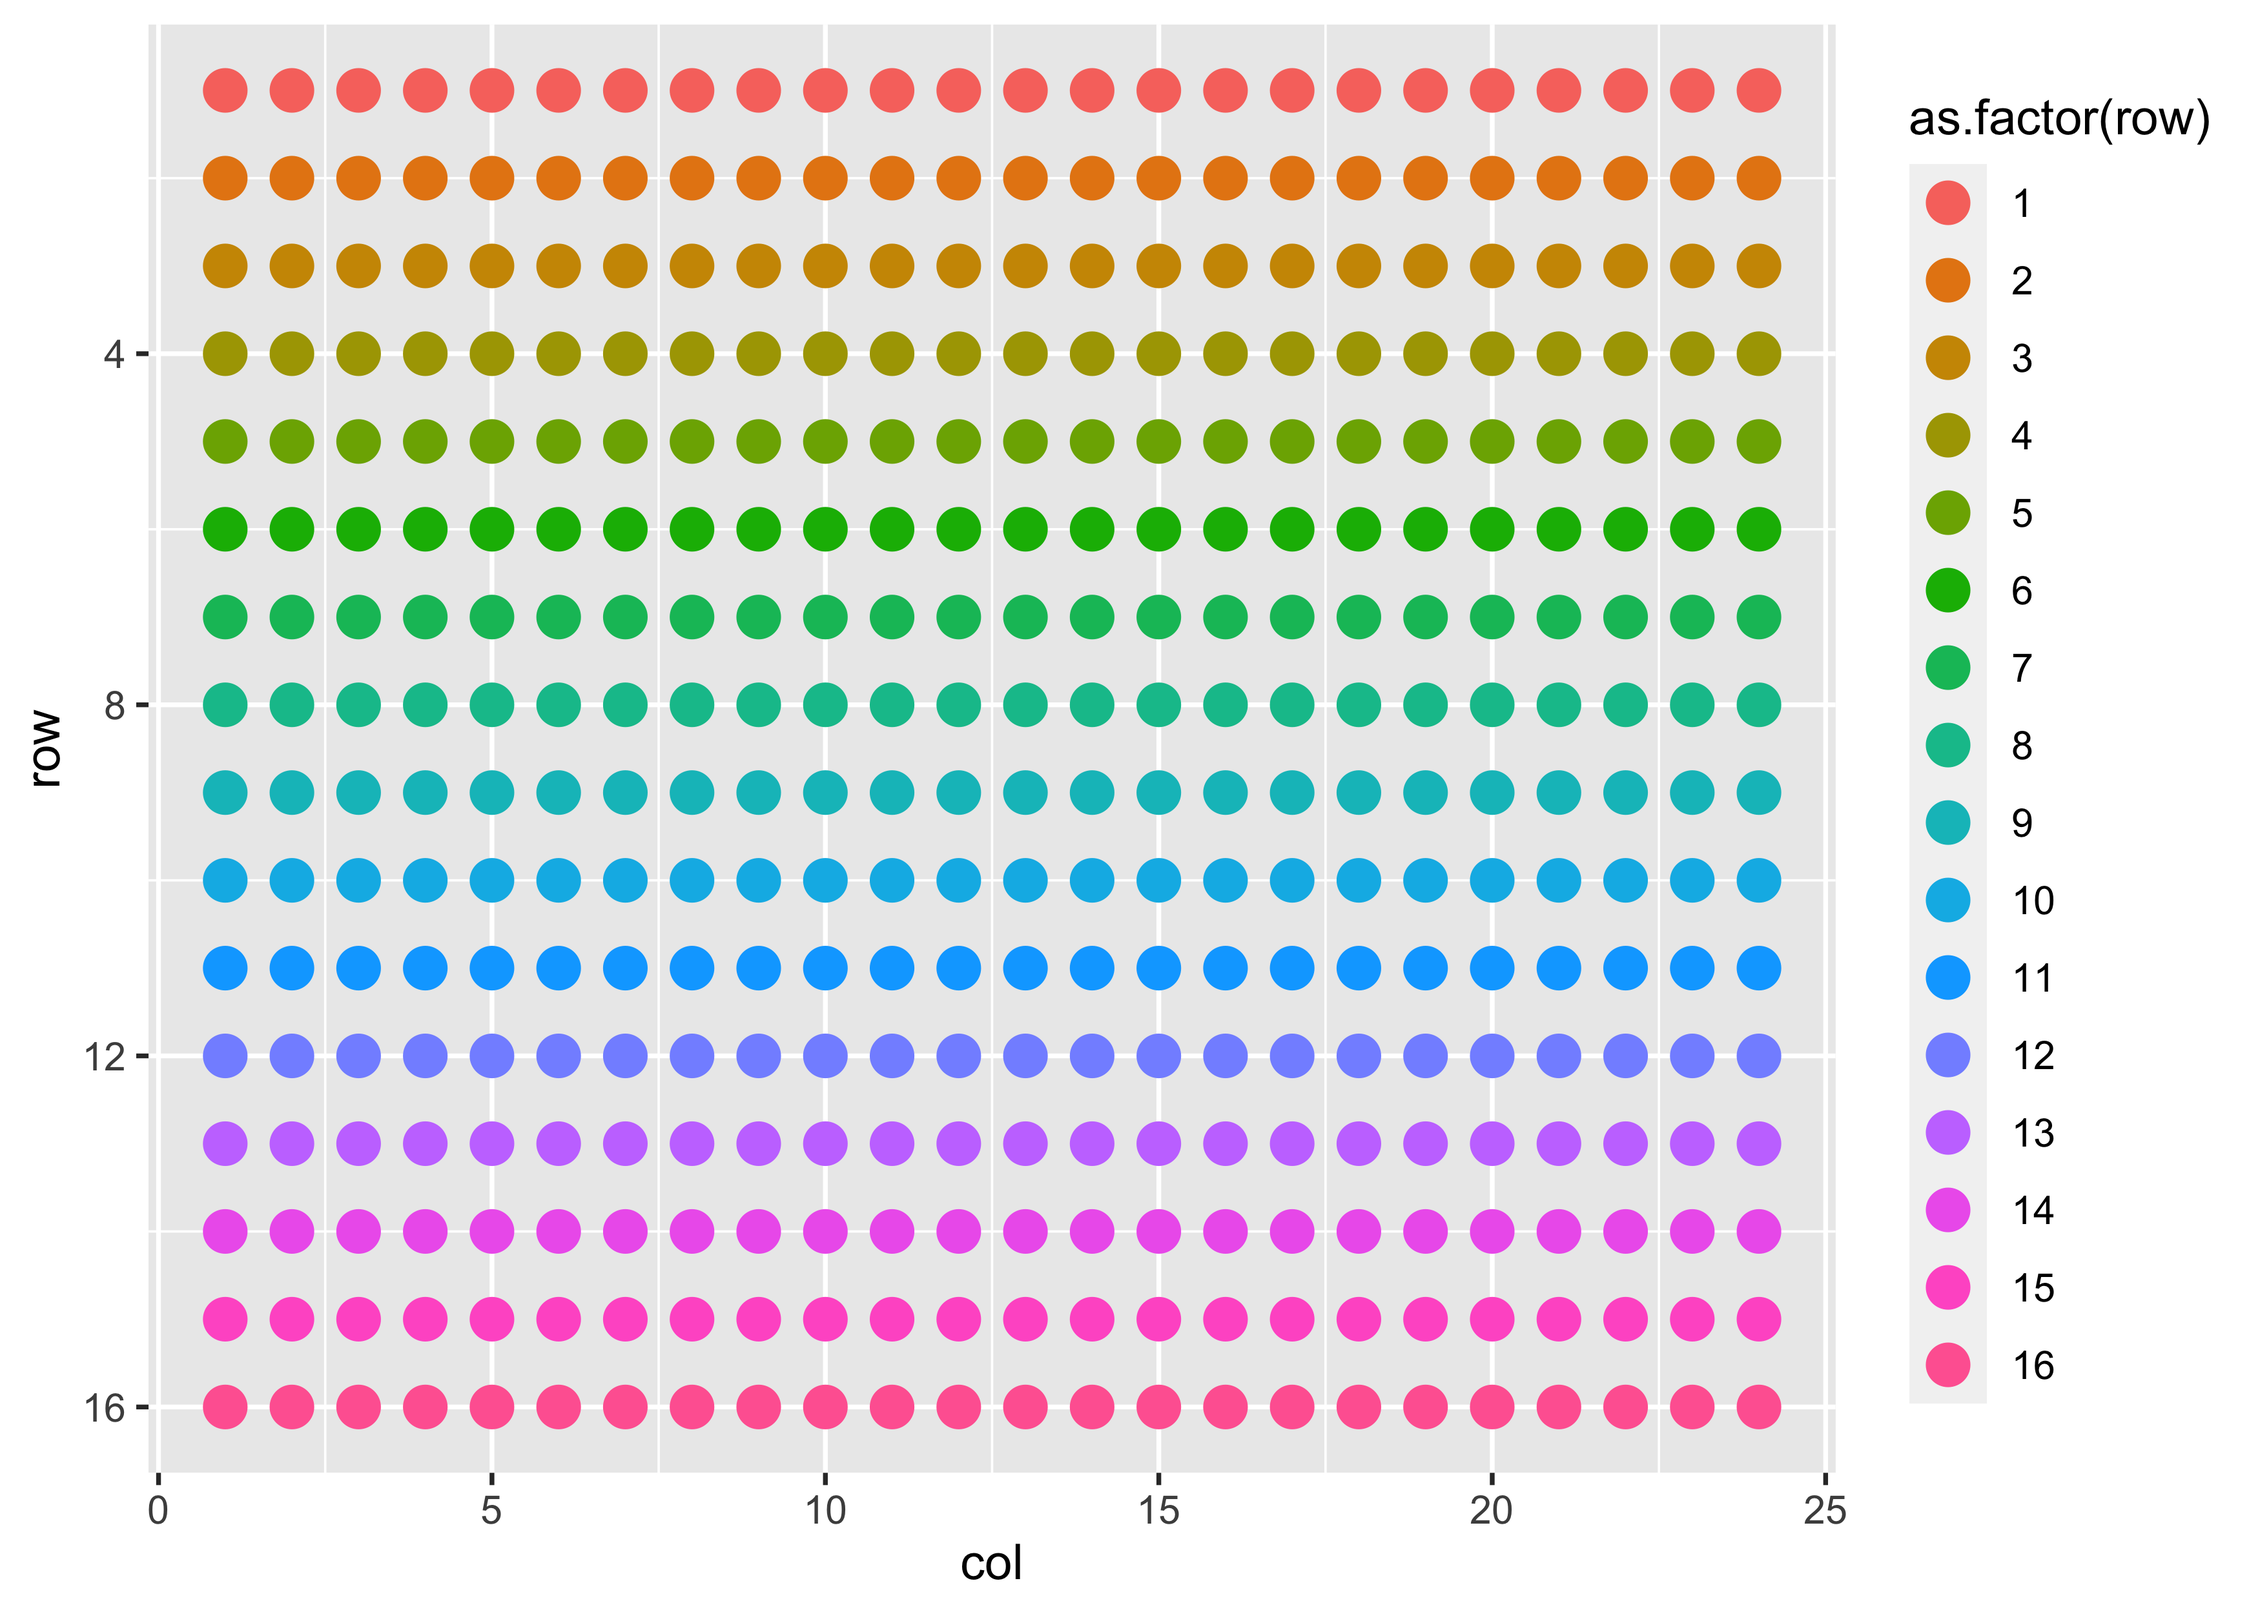
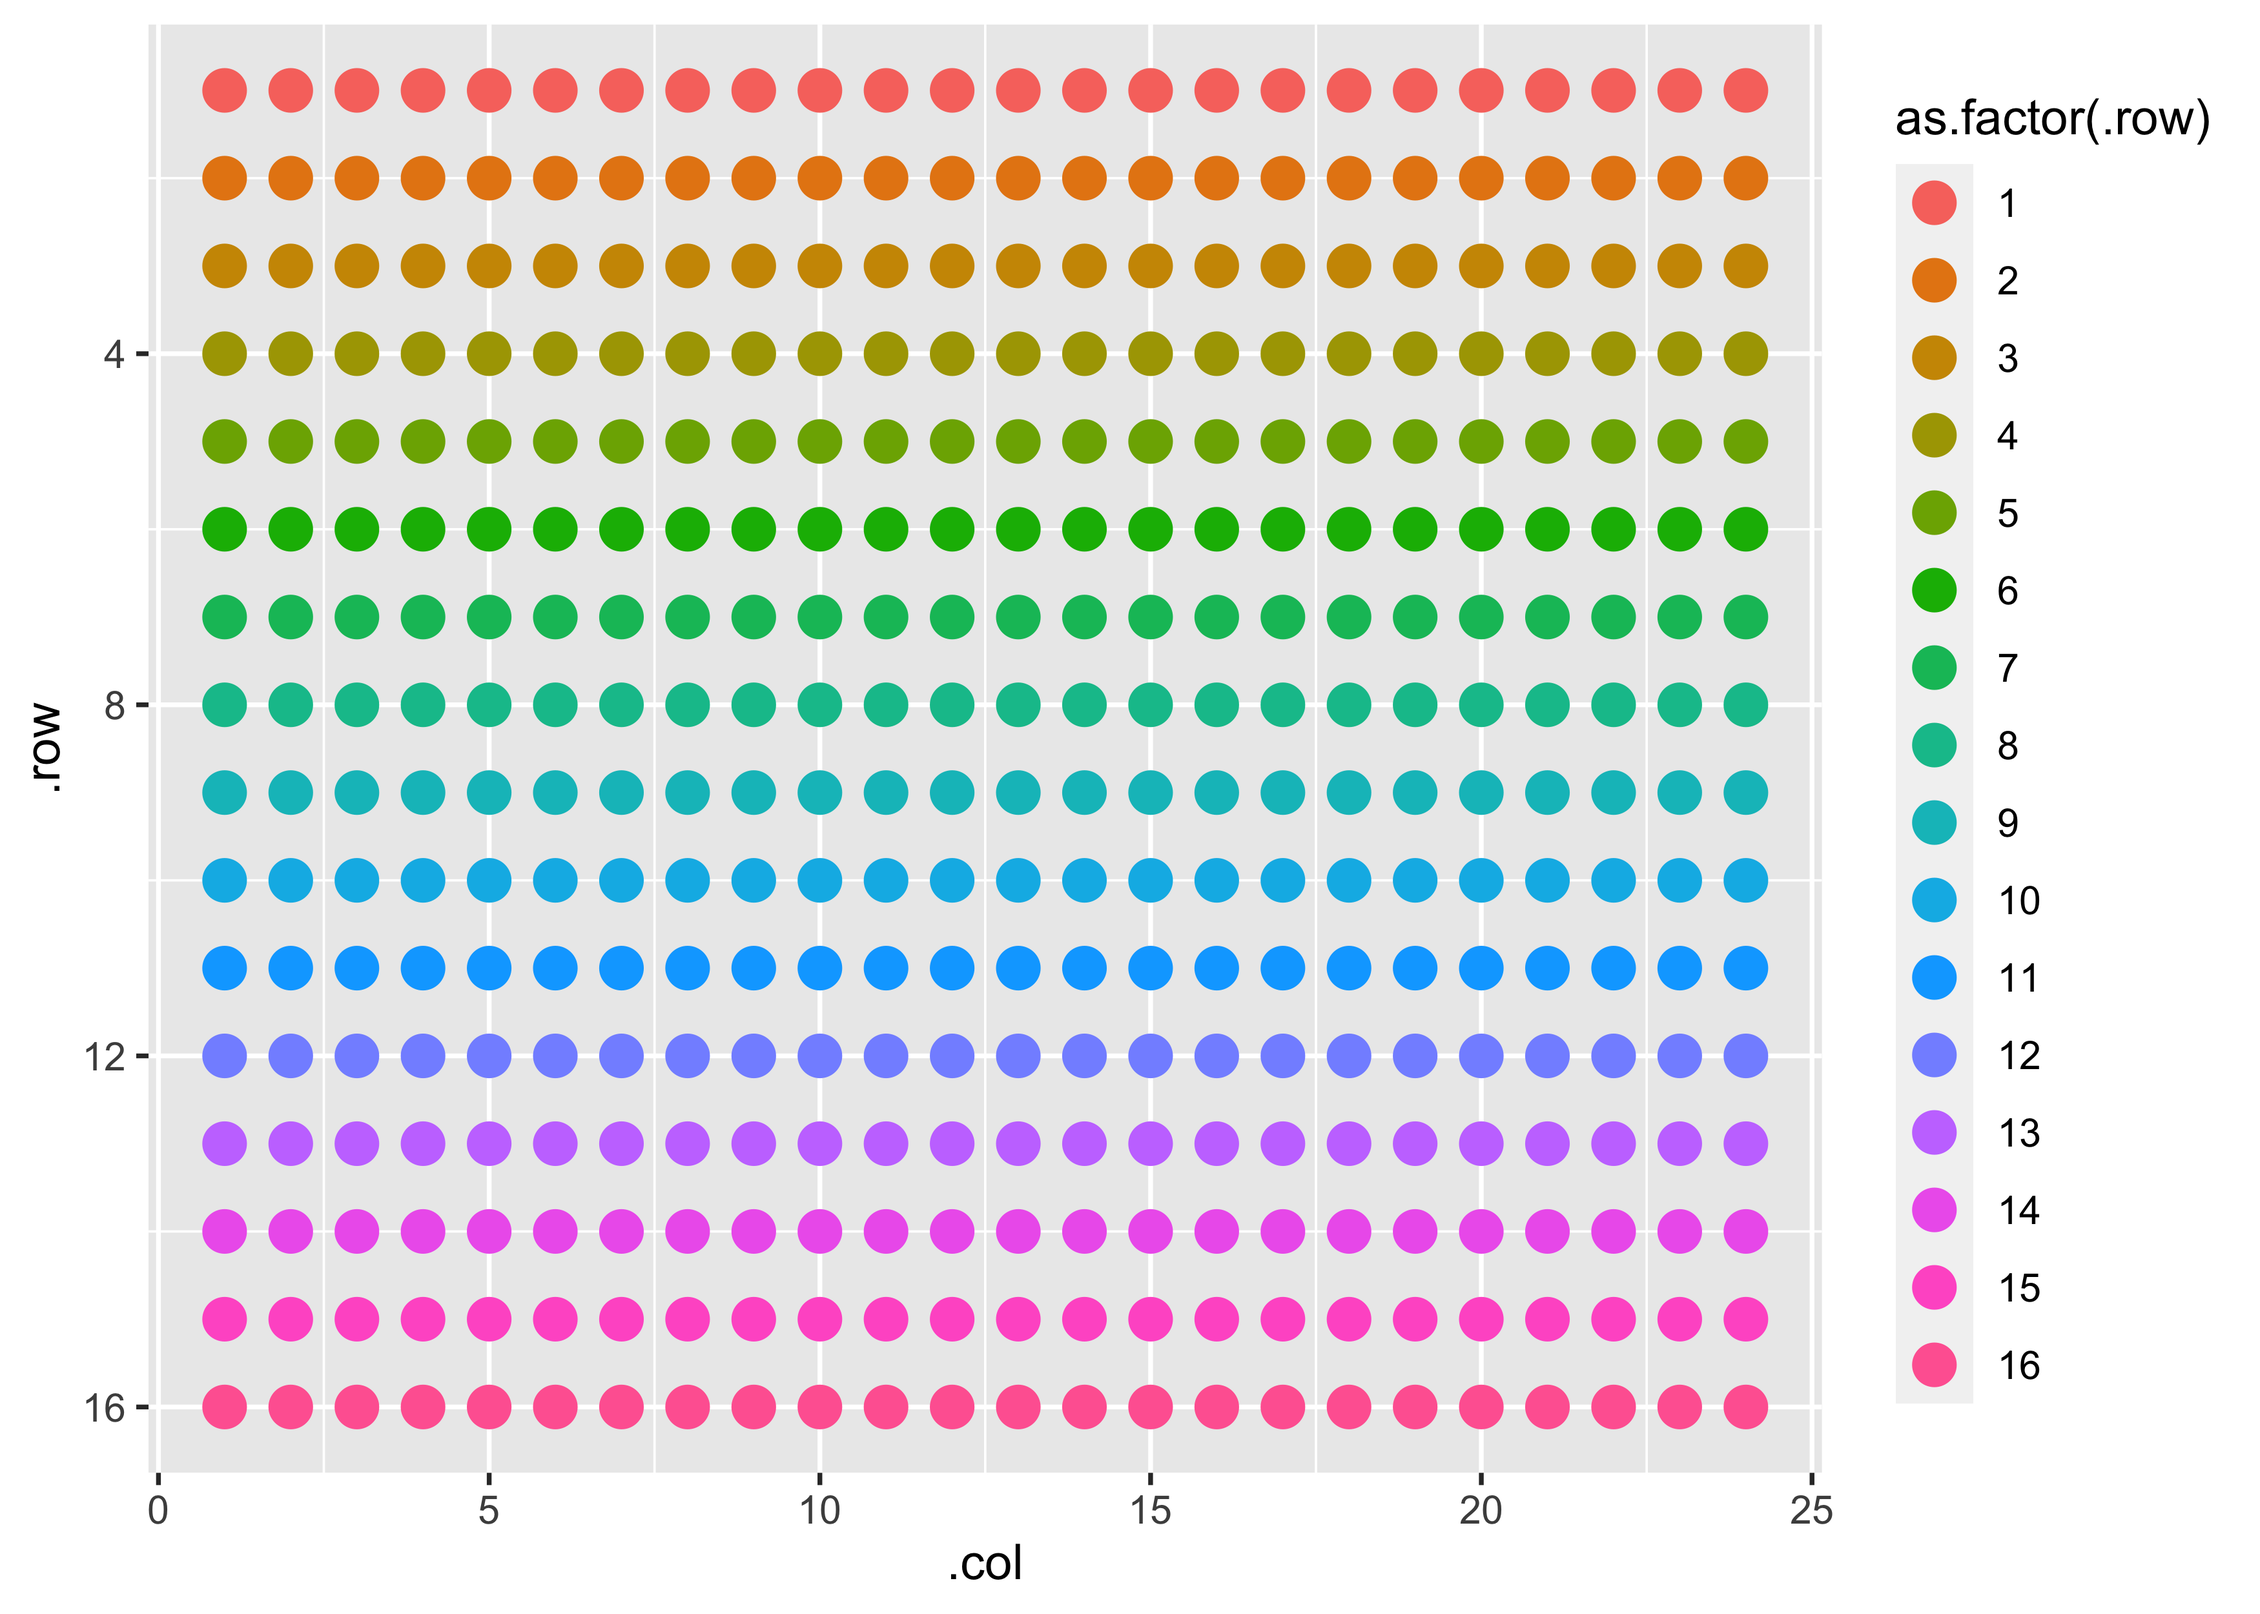
at least it builds

Changed region(s): [[0.218, 0.0312, 0.8097, 0.936], [0.8409, 0.0624, 0.9343, 0.8736], [0.0, 0.4368, 0.0311, 0.4992]]

diff --git a/README.md b/README.md
@@ -37,7 +37,7 @@ Creating a plate plot is simple:
 ``` r
 library(gp)
 gp(rows = 16, cols = 24) |>
-  gp_plot(as.factor(row))
+  gp_plot(as.factor(.row))
 ```
 
 <img src="man/figures/README-example-1.png" width="100%" /> We can add
@@ -46,7 +46,7 @@ rectangular ‘sections’ to our plates:
 ``` r
 gp(rows = 16, cols = 24) |> 
   gp_sec("my_section", nrow = 12, ncol = 6) |> 
-  gp_plot(my_section)
+  gp_plot(as.factor(my_section))
 ```
 
 <img src="man/figures/README-unnamed-chunk-2-1.png" width="100%" />
@@ -58,7 +58,7 @@ These sections can have sections of their own, just by layering one
 gp(rows = 16, cols = 24) |> 
   gp_sec("my_section", nrow = 12, ncol = 6) |> 
   gp_sec("secsec", nrow = 3, ncol = 3) |> 
-  gp_plot(secsec)
+  gp_plot(as.factor(secsec))
 ```
 
 <img src="man/figures/README-unnamed-chunk-3-1.png" width="100%" />
@@ -69,7 +69,7 @@ sparkline-esque plates.
 ``` r
 mini_plot_cols <- gp(8, 12) |> 
   gp_sec(name = "primers", ncol = 3) |> 
-  gp_plot(primers) + 
+  gp_plot(as.factor(primers)) + 
   gp_mini_theme()
 ggplot2::ggsave(filename = "./man/figures/mini-plot_cols.png", 
                 plot = mini_plot_cols,
@@ -80,7 +80,7 @@ ggplot2::ggsave(filename = "./man/figures/mini-plot_cols.png",
 
 mini_plot_rows <- gp(8, 12) |> 
   gp_sec(name = "primers", nrow = 3) |> 
-  gp_plot(primers) + 
+  gp_plot(as.factor(primers)) + 
   gp_mini_theme()
 ggplot2::ggsave(filename = "./man/figures/mini-plot_rows.png", 
                 plot = mini_plot_rows,
